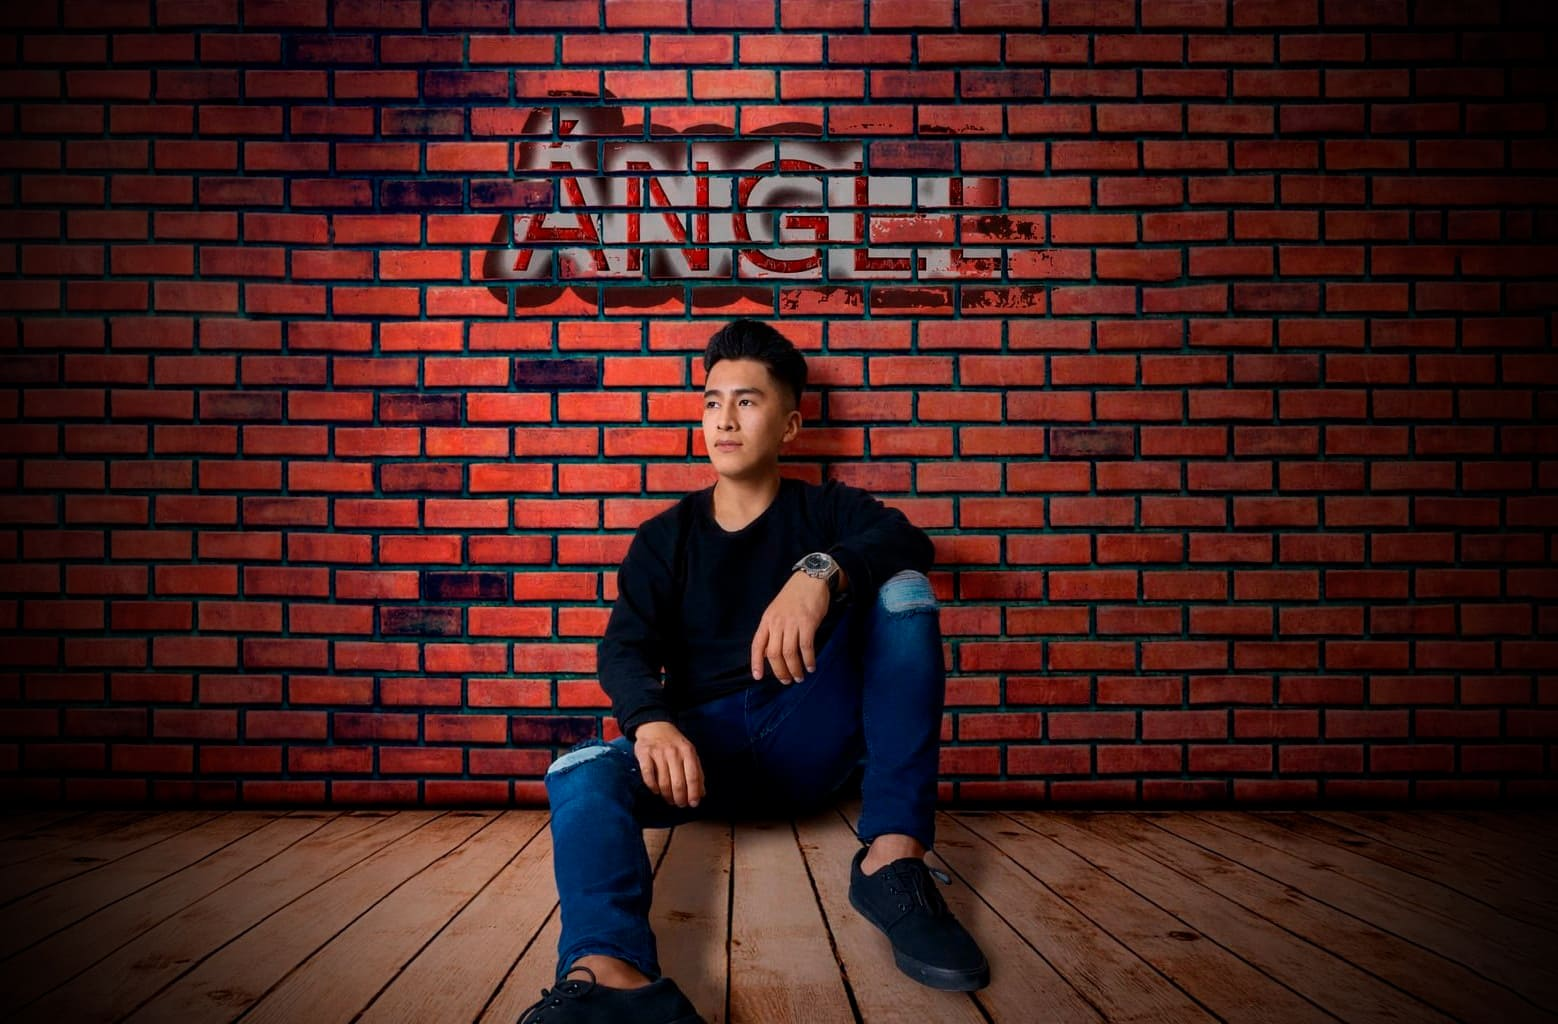
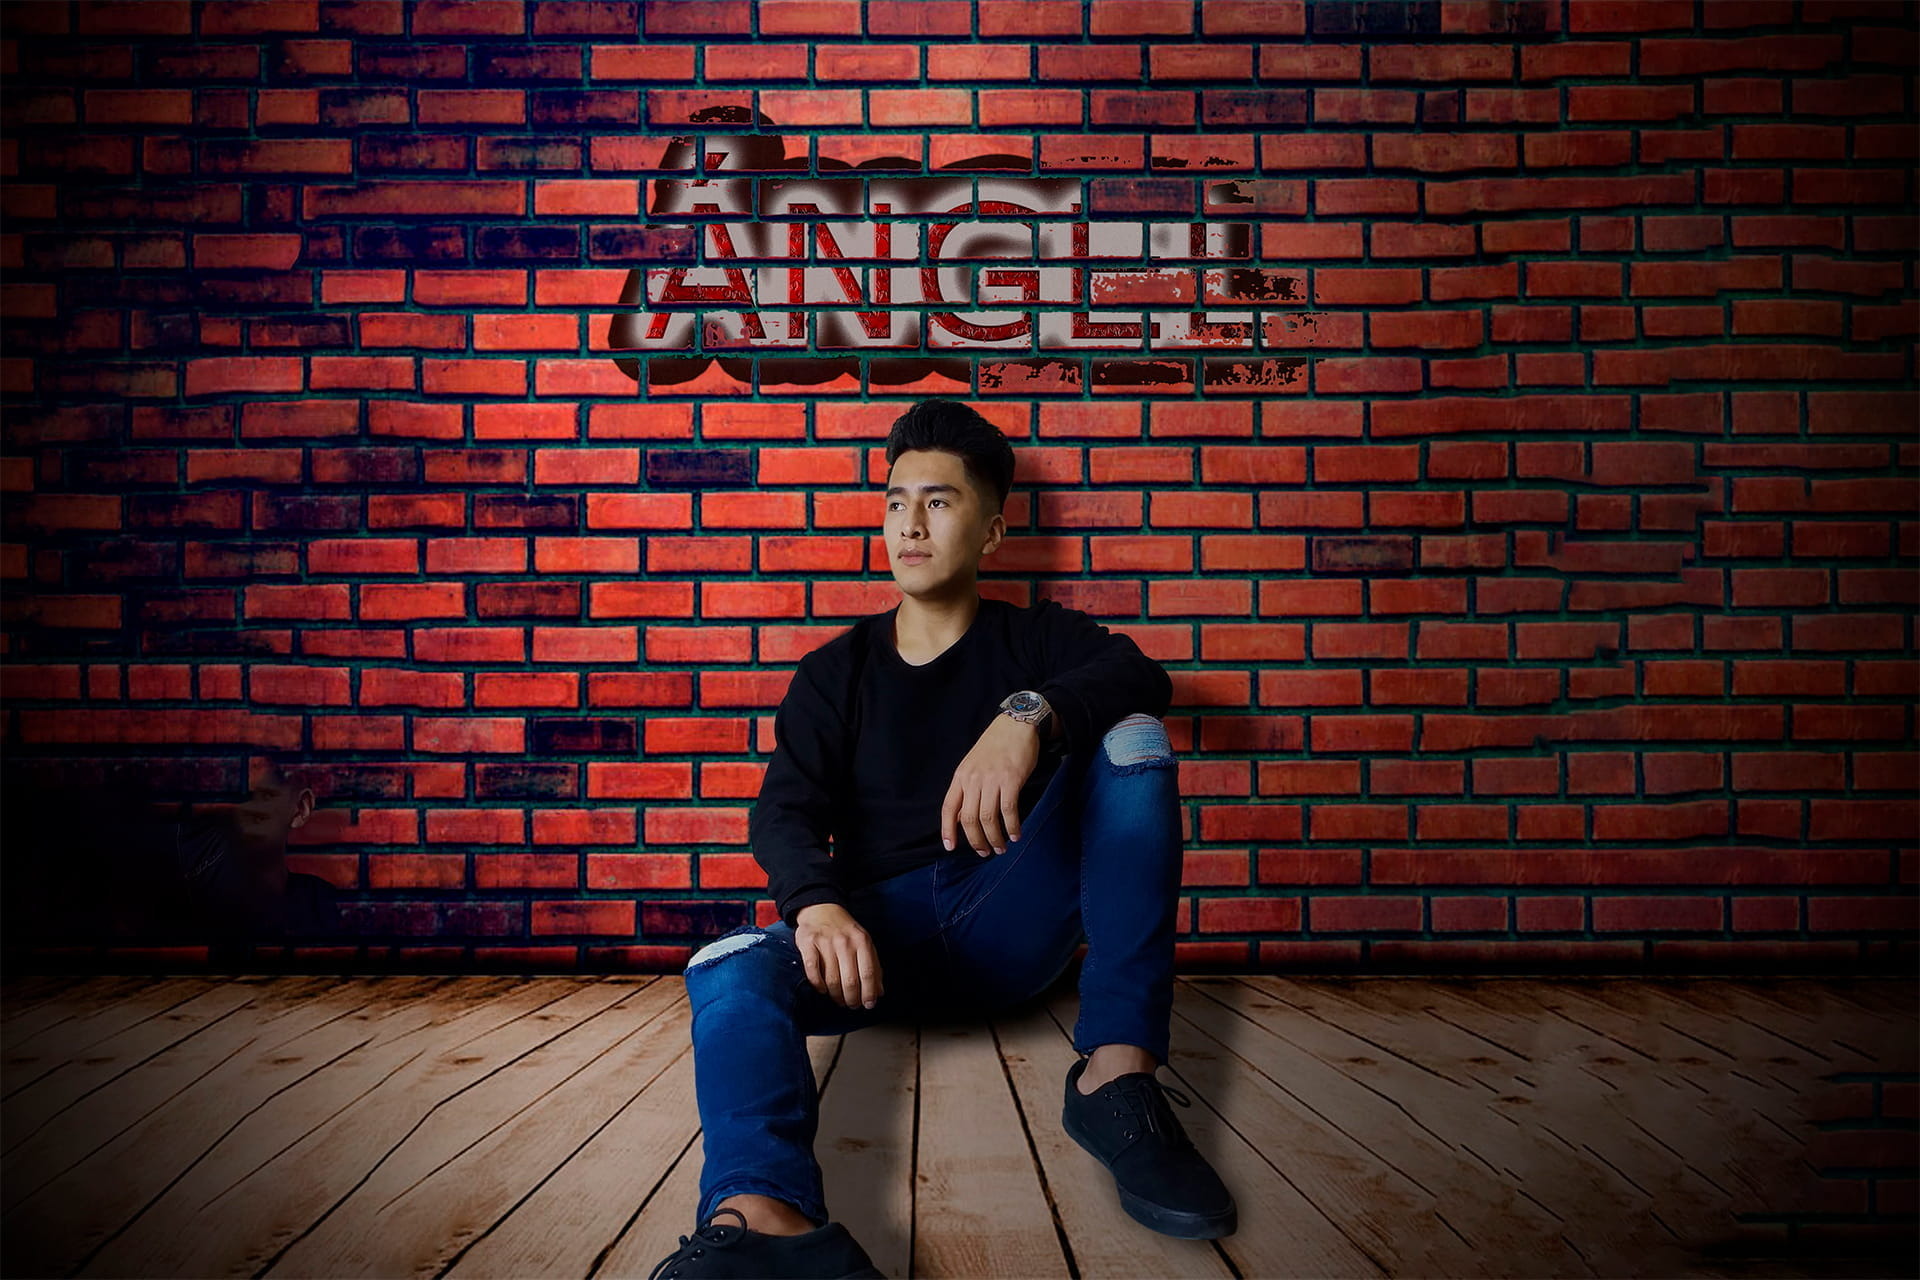
terminando las animaciones, imagenes

diff --git a/css/styles.css b/css/styles.css
@@ -200,11 +200,15 @@ html {
     text-align: center;
     align-content: center;
     opacity: .9;
-    transition: top 1s cubic-bezier(0.68, -0.55, 0.27, 1.55);
+    visibility: hidden;
+    transition: top 1s cubic-bezier(0.68, -0.55, 0.27, 1.55), visibility 0s linear 1s;
 }
 
 .options.show {
+    visibility: visible;
     top: 0;
+    transition: top 1s cubic-bezier(0.68, -0.55, 0.27, 1.55),
+        visibility 0s linear 0s;
 }
 
 .options-container ul li a {
@@ -285,7 +289,6 @@ html {
 
 /* FIN DE ESTILOS DE OPCIONES */
 
-
 /* FIN DE ESTILOS DE CABECERA */
 
 
@@ -293,7 +296,13 @@ html {
 /* ESTILOS DE CONTENIDO PRINCIPAL */
 
 main {
-    background: black;
+    height: 100vh;
+    background-color: black;
+}
+
+.portada {
+    width: clamp(200px, 100%, 900px);
+    margin: auto;
     height: 100vh;
 }
 

diff --git a/index.html b/index.html
@@ -96,9 +96,9 @@
     <section>
       <div class="portada">
         <picture>
+          <source media="(max-width: 600px)" srcset="assets/img/portada-short.jpg">
           <img src="assets/img/portada-large.jpg" alt="Foto de portada" title="Foto de portada" name="portada">
         </picture>
-        <div class="coverColor"></div>
       </div>
       <h2>Biografía</h2>
       <p>Anlorem dlorem ipsum dolor sit amet consectetur adipisicing elit. Vel, quo. Ea aspernatur nostrum, magnam
